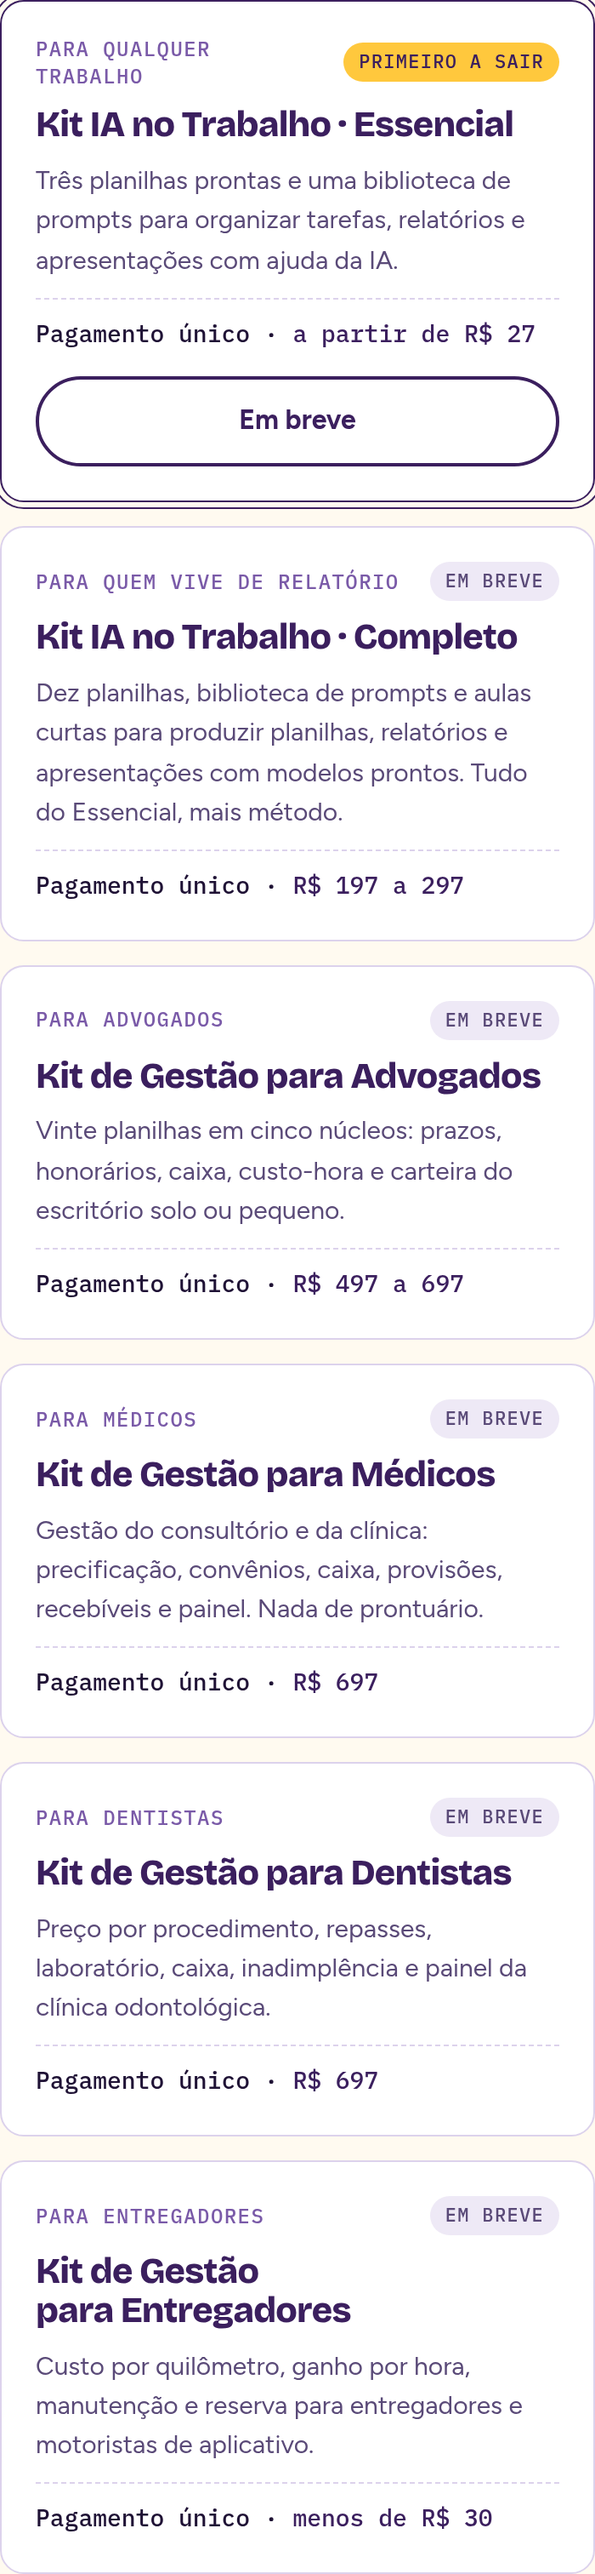
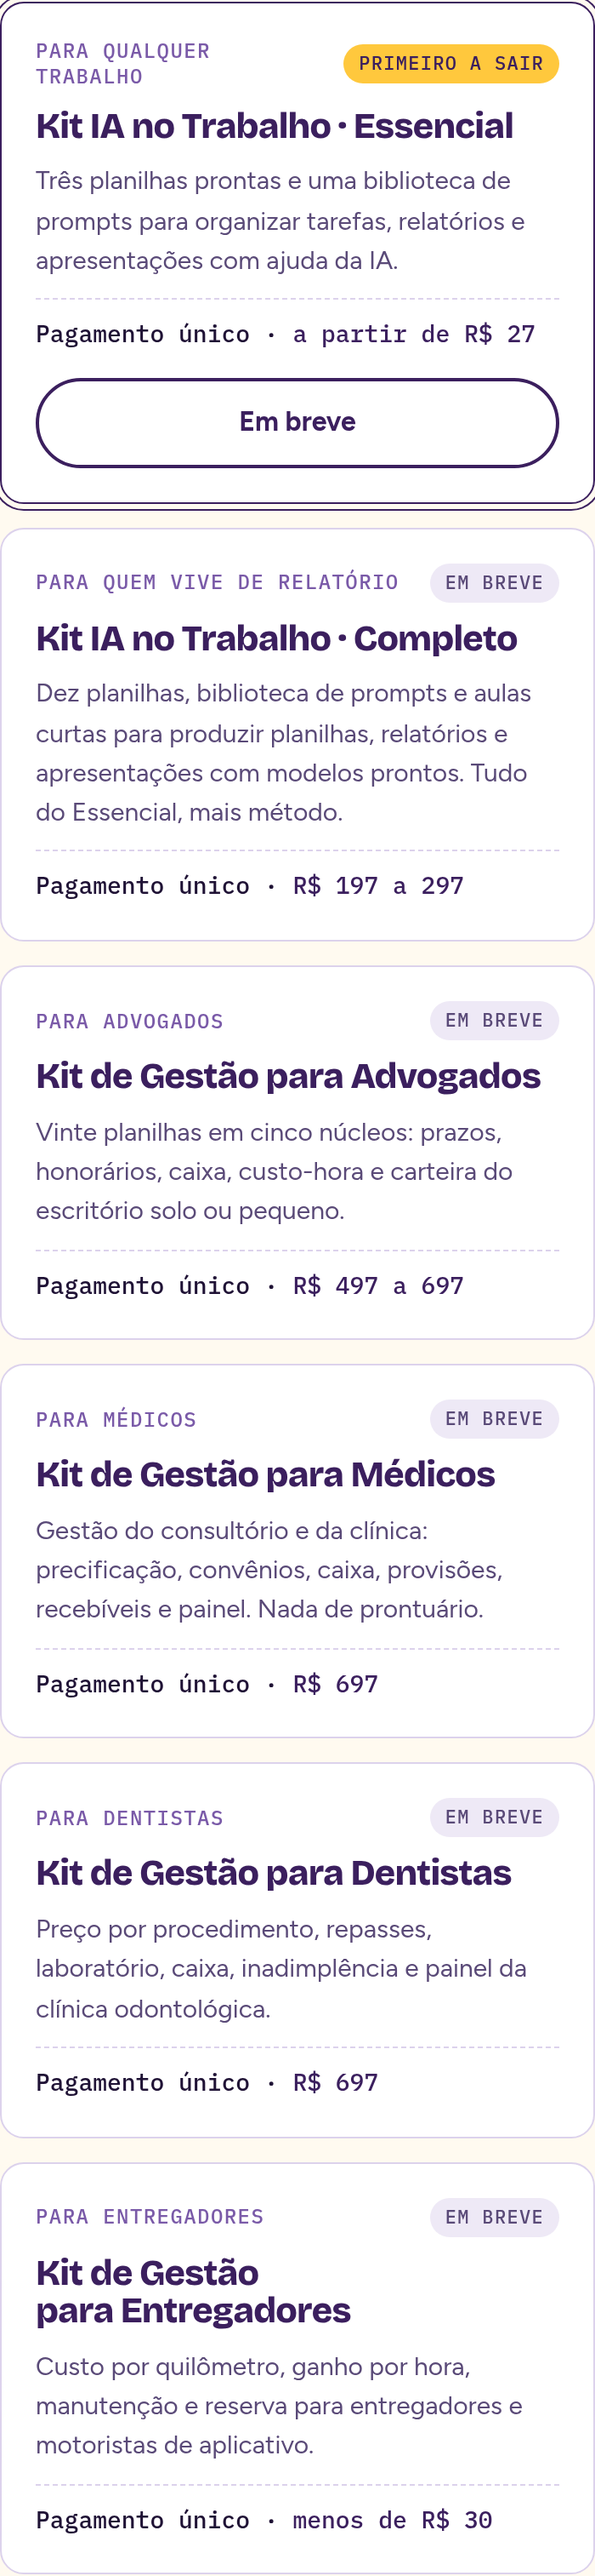
Site: cabeçalho do painel em uma linha
Claude-Session: https://claude.ai/code/session_0146uBo6FVJ2cyEehyP8rK61

diff --git a/projetos/gestao-ia-planilhas/site/public/assets/css/site.css b/projetos/gestao-ia-planilhas/site/public/assets/css/site.css
@@ -61,9 +61,10 @@ p{margin:0 0 1em;max-width:65ch}
 .hero__acoes{display:flex;flex-wrap:wrap;gap:12px;margin-top:8px}
 .hero__nota{font-family:var(--mono);font-size:13px;color:var(--tinta-2);margin-top:16px}
 .painel{background:#fff;border:1px solid var(--linha);border-radius:16px;padding:18px;box-shadow:0 20px 50px -30px rgba(59,31,94,.45);max-width:520px;justify-self:center;width:100%}
-.painel__cab{display:flex;justify-content:space-between;align-items:center;gap:12px;margin-bottom:12px}
+.painel__cab{display:flex;justify-content:space-between;align-items:center;gap:12px;margin-bottom:2px}
+.painel__sub{font-family:var(--mono);font-size:12px;color:var(--tinta-2);margin:0 0 12px}
 .painel__cab .tag{flex:none;white-space:nowrap}
-.painel__cab b{font-family:var(--display);font-weight:600;color:var(--uva);font-size:15px;line-height:1.25}
+.painel__cab b{font-family:var(--display);font-weight:600;color:var(--uva);font-size:16px;white-space:nowrap}
 .painel__cab span{font-family:var(--mono);font-size:12px;color:var(--tinta-2)}
 .painel__kpis{display:grid;grid-template-columns:repeat(3,1fr);gap:8px;margin-bottom:14px}
 .kpi{background:var(--lavanda);border-radius:10px;padding:10px 10px;min-width:0}

diff --git a/projetos/gestao-ia-planilhas/site/src/pages/index.html b/projetos/gestao-ia-planilhas/site/src/pages/index.html
@@ -16,7 +16,8 @@ body_class: pagina-home
       <p class="hero__nota">Pagamento único · Excel e Google Sheets · 7 dias para desistir</p>
     </div>
     <div class="painel" aria-label="Exemplo ilustrativo de painel do kit, com dados fictícios">
-      <div class="painel__cab"><b>Fechamento do mês · Clínica Sorriso da Vila</b><span class="tag tag--neutro">exemplo fictício</span></div>
+      <div class="painel__cab"><b>Fechamento do mês</b><span class="tag tag--neutro">exemplo fictício</span></div>
+      <p class="painel__sub">Clínica Sorriso da Vila · setembro</p>
       <div class="painel__kpis">
         <div class="kpi"><small>Recebido</small><b>R$ 48.200</b></div>
         <div class="kpi"><small>Custos</small><b>R$ 31.650</b></div>

diff --git a/projetos/gestao-ia-planilhas/site/public/index.html b/projetos/gestao-ia-planilhas/site/public/index.html
@@ -49,7 +49,8 @@
       <p class="hero__nota">Pagamento único · Excel e Google Sheets · 7 dias para desistir</p>
     </div>
     <div class="painel" aria-label="Exemplo ilustrativo de painel do kit, com dados fictícios">
-      <div class="painel__cab"><b>Fechamento do mês · Clínica Sorriso da Vila</b><span class="tag tag--neutro">exemplo fictício</span></div>
+      <div class="painel__cab"><b>Fechamento do mês</b><span class="tag tag--neutro">exemplo fictício</span></div>
+      <p class="painel__sub">Clínica Sorriso da Vila · setembro</p>
       <div class="painel__kpis">
         <div class="kpi"><small>Recebido</small><b>R$ 48.200</b></div>
         <div class="kpi"><small>Custos</small><b>R$ 31.650</b></div>
